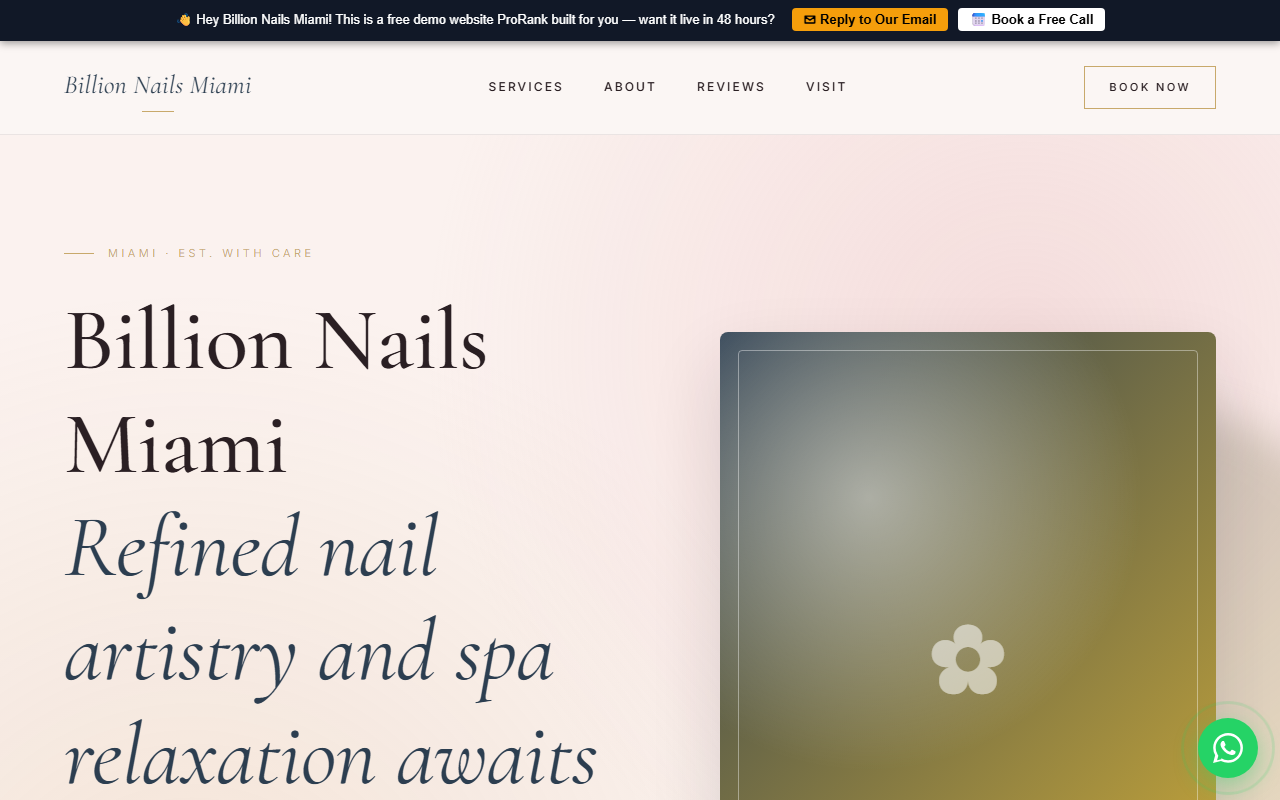
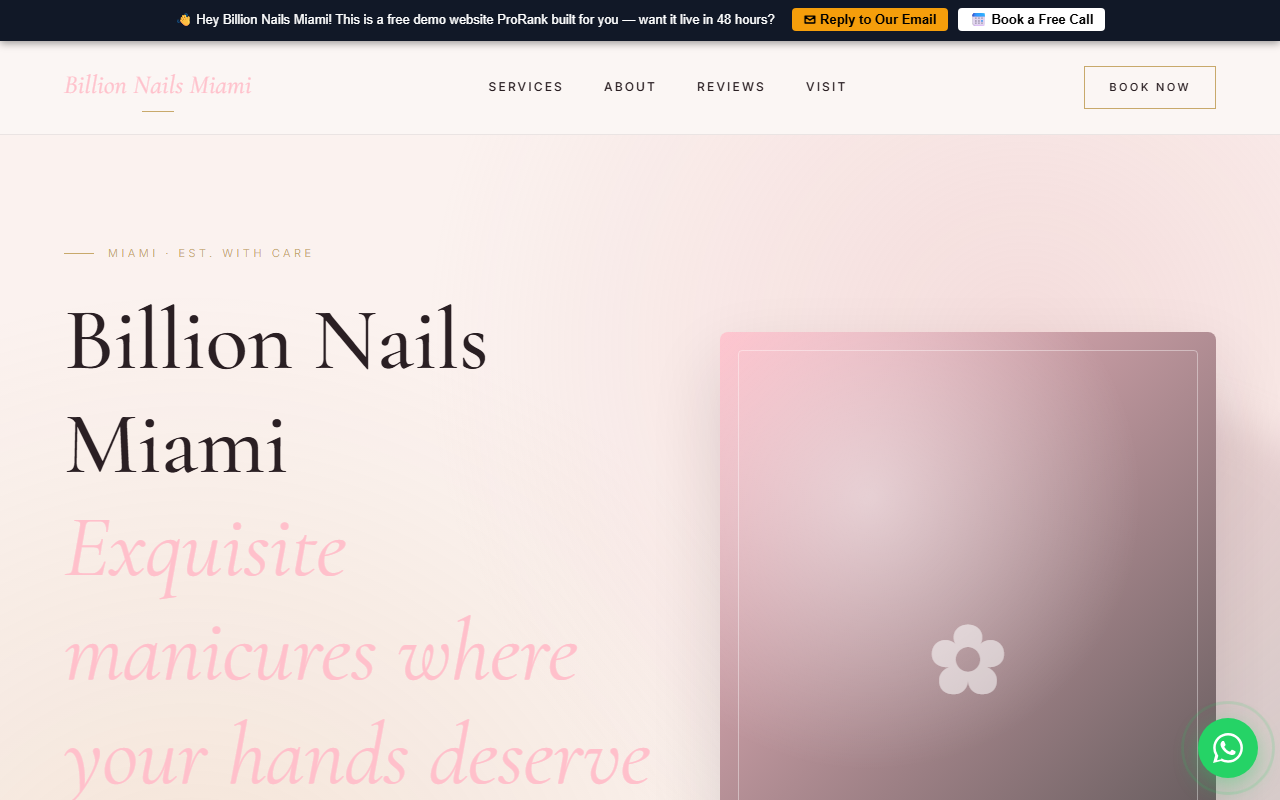
Add demo: billion-nails-miami

diff --git a/billion-nails-miami/index.html b/billion-nails-miami/index.html
@@ -4,14 +4,14 @@
 <meta charset="UTF-8" />
 <meta name="viewport" content="width=device-width, initial-scale=1.0" />
 <title>Billion Nails Miami — Miami</title>
-<meta name="description" content="Experience premium nail care at Billion Nails in Miami. Our expert technicians offer gel manicures, dip powder, and luxurious pedicures designed to elevate your style." />
+<meta name="description" content="Experience flawless finishes at Billion Nails Miami. Our expert artists deliver precision nail artistry, luxurious spa pedicures, and custom gel designs in a warm, premium setting." />
 <link rel="preconnect" href="https://fonts.googleapis.com">
 <link rel="preconnect" href="https://fonts.gstatic.com" crossorigin>
 <link href="https://fonts.googleapis.com/css2?family=Cormorant+Garamond:ital,wght@0,400;0,500;0,600;1,400&family=Inter:wght@300;400;500;600&display=swap" rel="stylesheet">
 <style>
   :root {
-    --primary: #2C3E50;
-    --secondary: #D4AF37;
+    --primary: #FFC0CB;
+    --secondary: #4A4A4A;
     --blush: #fbf2ef;
     --pearl: #faf6f3;
     --ink: #2a1f23;
@@ -334,7 +334,7 @@
   <div class="hero-inner">
     <div class="hero-text">
       <div class="eyebrow">Miami · Est. with care</div>
-      <h1>Billion Nails Miami<br/><em>Refined nail artistry and spa relaxation awaits you</em></h1>
+      <h1>Billion Nails Miami<br/><em>Exquisite manicures where your hands deserve their spotlight</em></h1>
       <p class="lede">A quiet space to unwind, refresh, and leave feeling like the very best version of yourself.</p>
       <div class="hero-actions">
         <a href="tel:+17817324456" class="btn btn-primary">Book Appointment</a>
@@ -356,19 +356,19 @@
       <div class="service-card">
         <span class="service-num">— No. 01 —</span>
         <div class="service-icon">✂</div>
-        <h3>Gel manicures</h3>
+        <h3>Precision nail artistry</h3>
         <p>A consultation, a fresh perspective, and a finish that's unmistakably you.</p>
       </div>
       <div class="service-card">
         <span class="service-num">— No. 02 —</span>
         <div class="service-icon">❋</div>
-        <h3>Dip powder applications</h3>
+        <h3>Luxurious spa pedicures</h3>
         <p>Premium products, gentle technique, and results that hold up beautifully.</p>
       </div>
       <div class="service-card">
         <span class="service-num">— No. 03 —</span>
         <div class="service-icon">✿</div>
-        <h3>Luxury spa pedicures</h3>
+        <h3>Custom gel polish designs</h3>
         <p>An hour just for you — to relax, refresh, and walk out glowing.</p>
       </div>
     </div>
